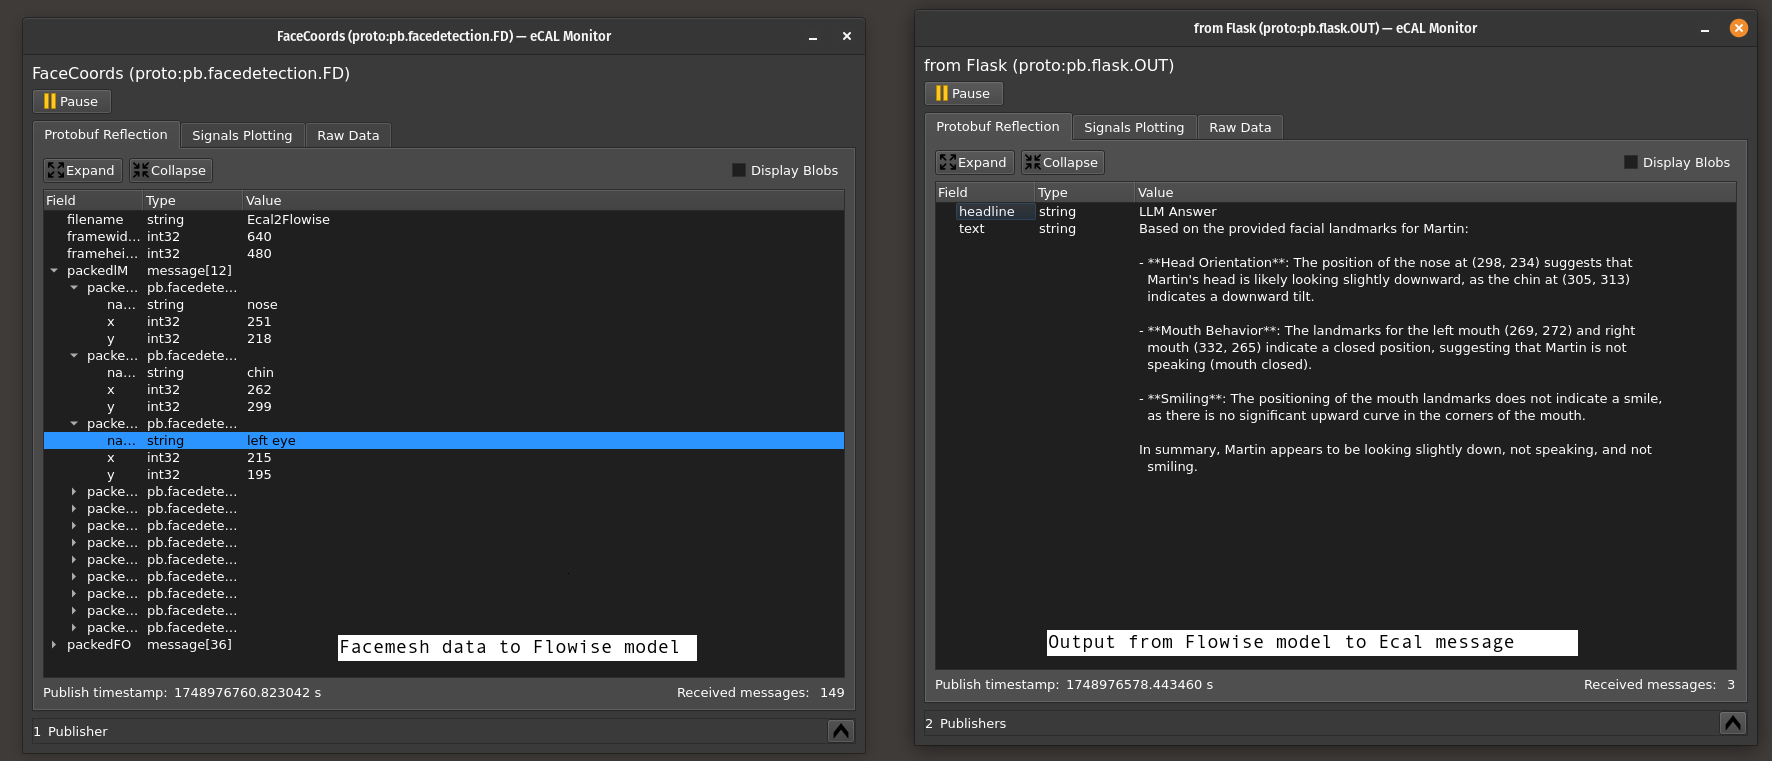
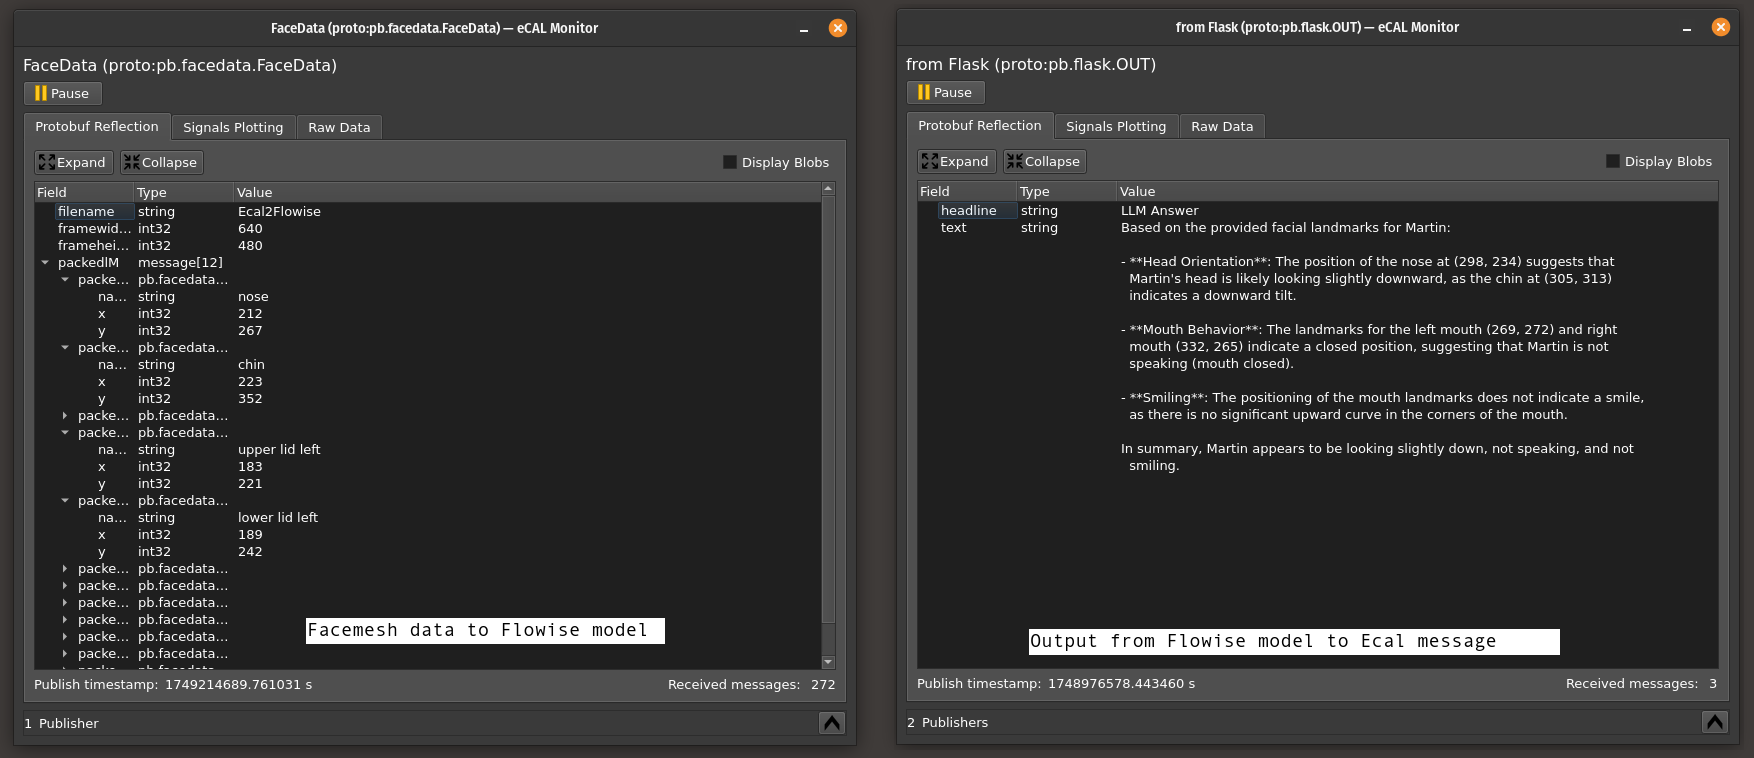
small changes

diff --git a/src/facedata_pb2.py b/src/facedata_pb2.py
@@ -1,0 +1,29 @@
+# -*- coding: utf-8 -*-
+# Generated by the protocol buffer compiler.  DO NOT EDIT!
+# source: facedata.proto
+"""Generated protocol buffer code."""
+from google.protobuf.internal import builder as _builder
+from google.protobuf import descriptor as _descriptor
+from google.protobuf import descriptor_pool as _descriptor_pool
+from google.protobuf import symbol_database as _symbol_database
+# @@protoc_insertion_point(imports)
+
+_sym_db = _symbol_database.Default()
+
+
+
+
+DESCRIPTOR = _descriptor_pool.Default().AddSerializedFile(b'\n\x0e\x66\x61\x63\x65\x64\x61ta.proto\x12\x0bpb.facedata\"o\n\x08\x46\x61\x63\x65\x44\x61ta\x12\x10\n\x08\x66ilename\x18\x01 \x01(\t\x12(\n\x08packedlM\x18\x04 \x03(\x0b\x32\x16.pb.facedata.Landmarks\x12\'\n\x08packedFO\x18\x05 \x03(\x0b\x32\x15.pb.facedata.FaceOval\"/\n\tLandmarks\x12\x0c\n\x04name\x18\x01 \x01(\t\x12\t\n\x01x\x18\x02 \x01(\x05\x12\t\n\x01y\x18\x03 \x01(\x05\".\n\x08\x46\x61\x63\x65Oval\x12\x0c\n\x04name\x18\x01 \x01(\t\x12\t\n\x01x\x18\x02 \x01(\x05\x12\t\n\x01y\x18\x03 \x01(\x05\x62\x06proto3')
+
+_builder.BuildMessageAndEnumDescriptors(DESCRIPTOR, globals())
+_builder.BuildTopDescriptorsAndMessages(DESCRIPTOR, 'facedata_pb2', globals())
+if _descriptor._USE_C_DESCRIPTORS == False:
+
+  DESCRIPTOR._options = None
+  _FACEDATA._serialized_start=31
+  _FACEDATA._serialized_end=142
+  _LANDMARKS._serialized_start=144
+  _LANDMARKS._serialized_end=191
+  _FACEOVAL._serialized_start=193
+  _FACEOVAL._serialized_end=239
+# @@protoc_insertion_point(module_scope)

diff --git a/src/facedata2ecal.py b/src/facedata2ecal.py
@@ -1,5 +1,5 @@
 # Proto file compilation:
-# protoc -I =. --python_out=. facemesh.proto
+# protoc -I =. --python_out=. facedata.proto
 
 # Microsoft LiveCam - Adjust image
 # keyboard shortcuts that you can use to manage the zoom out/in feature of camera: 
@@ -14,7 +14,7 @@ from mediapipe.tasks import python
 import mediapipe as mp
 import ecal.core.core as ecal_core
 from ecal.core.publisher import ProtoPublisher
-import facemesh_pb2
+import facedata_pb2
 
 # drawing utilities from solutions API
 mp_drawing = mp.solutions.drawing_utils
@@ -96,11 +96,11 @@ def should_publish(prev, curr, frac=0.008):
 def EcalSetup():
     ecal_core.initialize(sys.argv, "Camera")
     ecal_core.set_process_state(1, 1, "Ready to publish")
-    return ProtoPublisher("FaceCoords", facemesh_pb2.FD)
+    return ProtoPublisher("FaceData", facedata_pb2.FaceData)
 
 # Populate protobuf message
 def PubFaceMesh(facemarkers, all_points):
-    msg = facemesh_pb2.FD()
+    msg = facedata_pb2.FaceData()
     msg.filename = 'Ecal2Flowise'
     msg.framewidth = global_width
     msg.frameheight = global_height

diff --git a/src/flaskendpoint.py b/src/flaskendpoint.py
@@ -16,10 +16,10 @@ pub = ProtoPublisher("from Flask",modeloutput_pb2.OUT)
 
 
 def genECALdata(text):
-    data2ecal = modeloutput_pb2.OUT()
-    data2ecal.headline = "LLM Answer"
-    data2ecal.text = text
-    pub.send(data2ecal)
+    pub2ecal = modeloutput_pb2.OUT()
+    pub2ecal.headline = "LLM Answer"
+    pub2ecal.text = text
+    pub.send(pub2ecal)
 
 
 @app.route('/api/interpret', methods=['POST'])
@@ -38,7 +38,6 @@ def interpret_face():
         # Do something with the interpretation text
         interpretation_text = data["text"]
         print("LLM Interpretation:", interpretation_text)
-        #wrapped_text = textwrap.fill(interpretation_text, width=80)
         wrapper = textwrap.TextWrapper(width=80, subsequent_indent='  ')
         formatted = "\n".join(wrapper.fill(line) if not line.startswith("-") else wrapper.fill(line) for line in interpretation_text.splitlines())
 

diff --git a/src/ecal2flowise.py b/src/ecal2flowise.py
@@ -11,7 +11,7 @@ import threading
 import requests
 import ecal.core.core as ecal_core
 from ecal.core.subscriber import ProtoSubscriber
-import facemesh_pb2
+import facedata_pb2
 from dotenv import load_dotenv
 import time
 #from queue import Queue
@@ -149,7 +149,7 @@ def callback(topic_name, msg, t):
 def main():
     print("Initializing eCAL...")
     ecal_core.initialize(sys.argv, "Camera")
-    sub = ProtoSubscriber("FaceCoords", facemesh_pb2.FD)
+    sub = ProtoSubscriber("FaceData", facedata_pb2.FaceData)
     sub.set_callback(callback)
 
     try:

diff --git a/README.md b/README.md
@@ -75,7 +75,7 @@ It is based on Protobuf messages, in our case like this:
 Model Input
 
     syntax = "proto3";
-    package pb.facedetection;
+    package pb.facedata;
     message FD{
 	    string filename = 1;
 	    int32 framewidth = 2;
@@ -110,7 +110,7 @@ Model output
 So, the camera und the LLM model must not be on the same PC, PC - Raspberry also works.
 If need - compile the Proto-file:
 
-    protoc -I =. --python_out=. facemesh.proto
+    protoc -I =. --python_out=. facedata.proto
     protoc -I =. --python_out=. modeloutput.proto
 
 ### B) What is a Facemesh?
